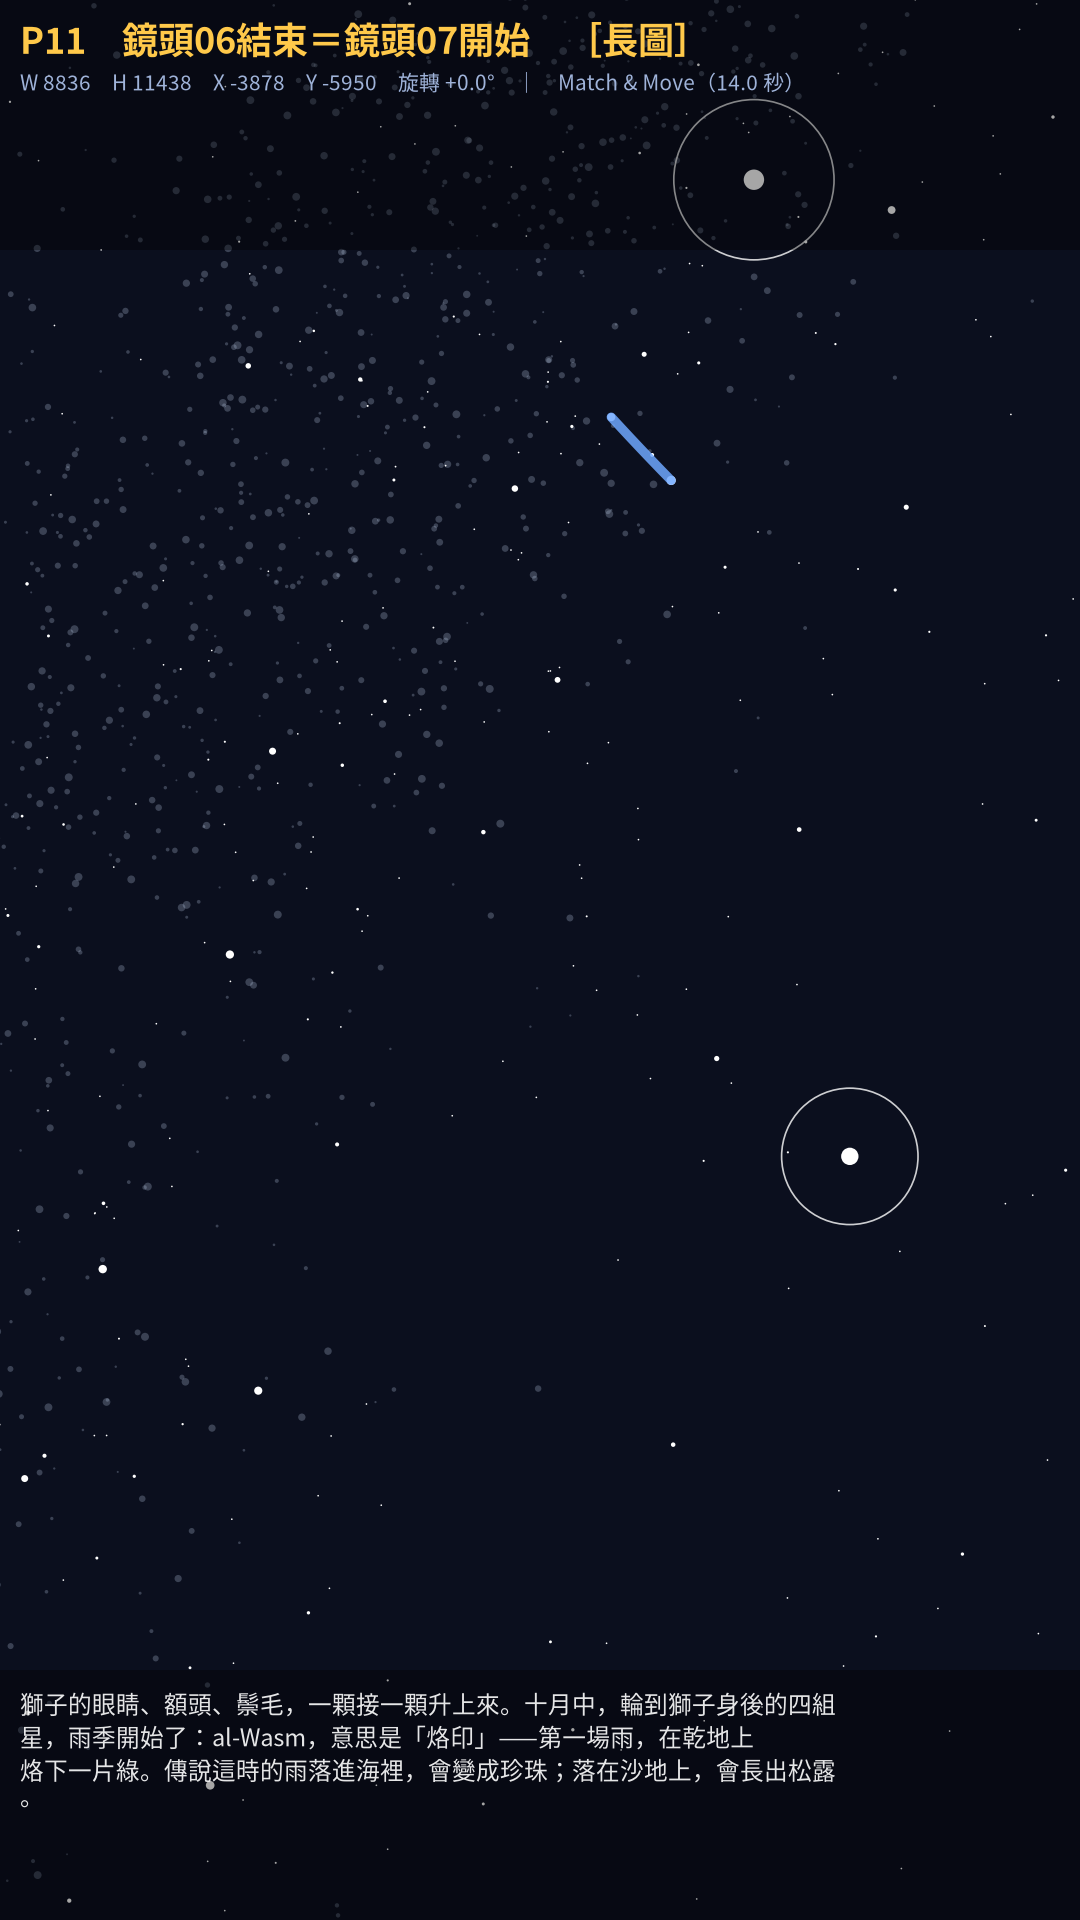
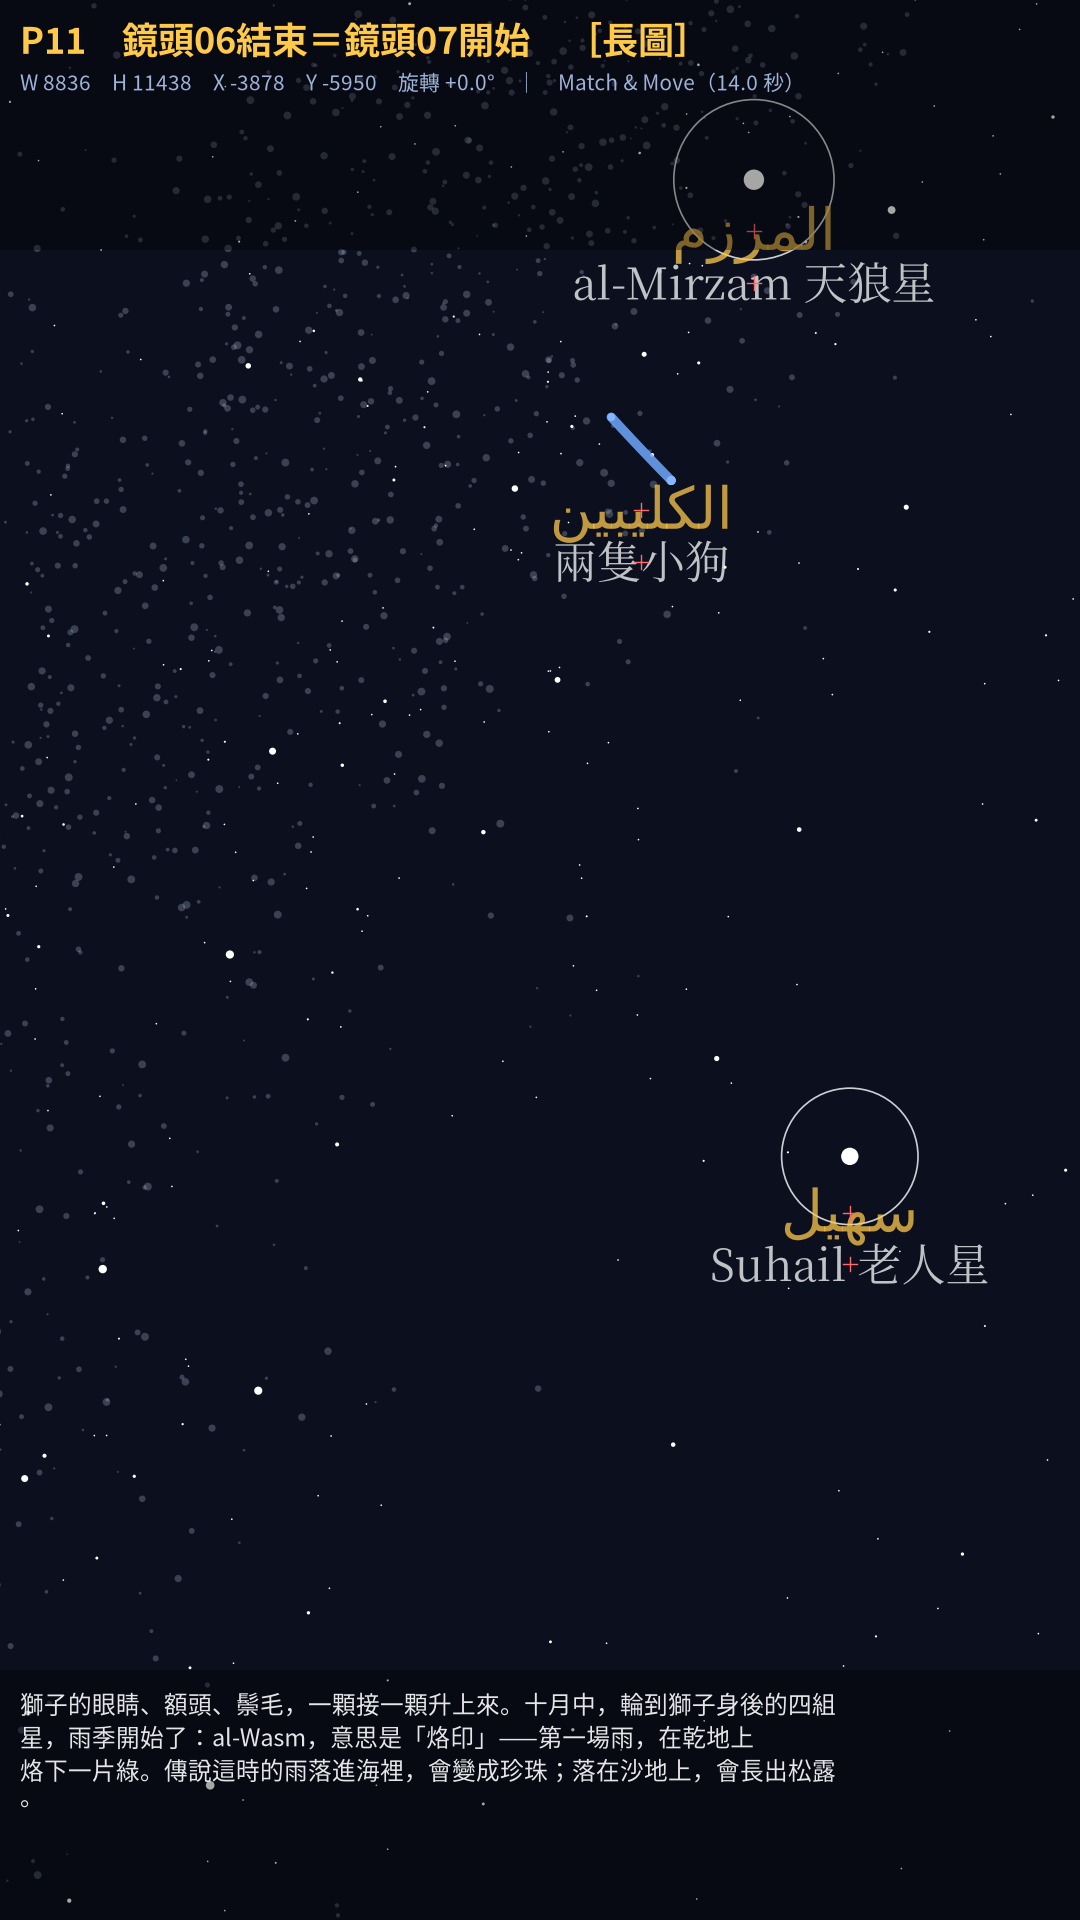
A-13：Canva 建置完成＋概念圖媒體 ID＋標籤銜接修正
- Canva「A-13 阿拉伯半島」（DAHWtAtSdto）：開場、44 頁天空、下集見、追蹤；定格頁疊上
  C-A13-01～05；旁白有改的 9 頁備註同步
- 07 鏡 labels_start＝星名（06 鏡停在老人星時 Suhail 標籤不再漏掉）、14 鏡 labels_end＝北天
  （旁白唸到 al-Jady 就淡入）；鏡頭清單與逐頁製作表重跑
- 逐字稿補 Canva 頁序、手動微調與待辦；節目表狀態改為 Canva 完成
- 使用說明補「一頁兩用」的標籤規則（labels_start／labels_end）

Claude-Session: https://claude.ai/code/session_01StZzE6tWpXcy8oYxpE6GNa

diff --git a/02_製作流程SOP/make_a13_v4.py b/02_製作流程SOP/make_a13_v4.py
@@ -483,6 +483,7 @@ def build():
              note="沿走廊往南：天狼（al-Mirzam）、兩隻小狗 → 老人星（Suhail）；星名標籤"),
         dict(code="07", kind="Z", sec=21, north=True,
              frames=[SUH, CORR, LION, WASM], layers=["站", "深空"], labels=ST,
+             labels_start=NMS,                 # 起格＝06 迄格（老人星）：留著 Suhail／兩隻小狗的星名
              vo="獅子的眼睛、額頭、鬃毛，一顆接一顆升上來。十月中，輪到獅子身後的四組星，"
                 "雨季開始了：al-Wasm，意思是「烙印」——第一場雨，在乾地上烙下一片綠。"
                 "傳說這時的雨落進海裡，會變成珍珠；落在沙地上，會長出松露。",
@@ -527,6 +528,7 @@ def build():
              note="輕推；月亮與昴宿同框"),
         dict(code="14", kind="T", sec=5, north=True, cut=True,
              frames=[NCOR, POLE], layers=["北", "深空"], labels=[],
+             labels_end=ls("北天原文", "北天中譯"),   # 旁白唸到 al-Jady 時就淡入（不必等到換北盤）
              vo="夜裡趕路，就看北邊。北極星叫 al-Jady，小山羊。",
              note="【硬切】回北走廊，往上到北極星；迄格＝15 起格（長圖轉北盤）"),
         dict(code="15", kind="R", sec=19, north=True,

diff --git a/05_素材/A-13_阿拉伯半島/_v4大畫布/A-13_Canva逐頁製作表.md b/05_素材/A-13_阿拉伯半島/_v4大畫布/A-13_Canva逐頁製作表.md
@@ -19,7 +19,7 @@
 | 8 | 鏡頭04結束＝鏡頭05開始 | 長圖 | 24300.0 | 31455.0 | -15187.5 | -13350.0 | 0.0 | Match & Move（17.0 秒） | L1-銀河、L2-星點、L3-經緯線、L5-連線-月站、L9-深空天體、L12-主角星白點、L13-標籤-月站原文、L14-標籤-月站中譯 | 接著十三天換一顆：先是跟在後面的小跟班 al-Twaibiʿ，就是畢宿五；再來是獵戶的頭、雙子的腳；七月底，輪到南河三——一頭大獅子的前臂。 |
 | 9 | 鏡頭05-中1 | 長圖 | 9720.0 | 12582.0 | -5292.0 | -5115.0 | 0.0 | Match & Move（8.0 秒） | L1-銀河、L2-星點、L3-經緯線、L5-連線-月站、L9-深空天體、L12-主角星白點、L13-標籤-月站原文、L14-標籤-月站中譯 |  |
 | 10 | 鏡頭05結束＝鏡頭06開始 | 長圖 | 9720.0 | 12582.0 | -4320.0 | -5169.0 | 0.0 | Match & Move（8.0 秒） | L1-銀河、L2-星點、L3-經緯線、L5-連線-月站、L9-深空天體、L12-主角星白點、L15-標籤-星名原文、L16-標籤-星名中譯 | 八月底，獅子的眼睛升起時，南方低空也冒出一顆亮星：Suhail，老人星。有兩句諺語：Suhail 一出來，夜就好過了；可是看到它，別以為不會淹水。 |
-| 11 | 鏡頭06結束＝鏡頭07開始 | 長圖 | 8836.4 | 11438.2 | -3878.2 | -5949.8 | 0.0 | Match & Move（14.0 秒） | L1-銀河、L2-星點、L3-經緯線、L5-連線-月站、L8-連線-清真寺與小狗、L9-深空天體、L12-主角星白點、L13-標籤-月站原文、L14-標籤-月站中譯 | 獅子的眼睛、額頭、鬃毛，一顆接一顆升上來。十月中，輪到獅子身後的四組星，雨季開始了：al-Wasm，意思是「烙印」——第一場雨，在乾地上烙下一片綠。傳說這時的雨落進海裡，會變成珍珠；落在沙地上，會長出松露。 |
+| 11 | 鏡頭06結束＝鏡頭07開始 | 長圖 | 8836.4 | 11438.2 | -3878.2 | -5949.8 | 0.0 | Match & Move（14.0 秒） | L1-銀河、L2-星點、L3-經緯線、L5-連線-月站、L8-連線-清真寺與小狗、L9-深空天體、L12-主角星白點、L15-標籤-星名原文、L16-標籤-星名中譯 | 獅子的眼睛、額頭、鬃毛，一顆接一顆升上來。十月中，輪到獅子身後的四組星，雨季開始了：al-Wasm，意思是「烙印」——第一場雨，在乾地上烙下一片綠。傳說這時的雨落進海裡，會變成珍珠；落在沙地上，會長出松露。 |
 | 12 | 鏡頭07-中1 | 長圖 | 9720.0 | 12582.0 | -4320.0 | -5169.0 | 0.0 | Match & Move（7.0 秒） | L1-銀河、L2-星點、L3-經緯線、L5-連線-月站、L9-深空天體、L12-主角星白點、L13-標籤-月站原文、L14-標籤-月站中譯 |  |
 | 13 | 鏡頭07-中2 | 長圖 | 9720.0 | 12582.0 | -3186.0 | -5169.0 | 0.0 | Match & Move（7.0 秒） | L1-銀河、L2-星點、L3-經緯線、L5-連線-月站、L9-深空天體、L12-主角星白點、L13-標籤-月站原文、L14-標籤-月站中譯 |  |
 | 14 | 鏡頭07結束＝鏡頭08開始 | 長圖 | 8100.0 | 10485.0 | -1372.5 | -4282.5 | 0.0 | Match & Move（7.0 秒） | L1-銀河、L2-星點、L3-經緯線、L5-連線-月站、L9-深空天體、L12-主角星白點、L13-標籤-月站原文、L14-標籤-月站中譯 | 十二月七號，天蠍的頭——al-Iklīl，「冠冕」——在黎明前升起；同一個黎明，西邊的昴宿正好落下。阿拉伯人說，這一對互為「守望者」：一個升起，另一個就落下。上週參商那種「你升我落」，阿拉伯人也看見了——只是他們拿來算雨。 |
@@ -42,7 +42,7 @@
 | 31 | 鏡頭12-概念圖收＝鏡頭13開始 | 長圖 | 21600.0 | 27960.0 | -13620.0 | -11760.0 | 0.0 | Match & Move（畫面不動；概念圖淡出） | L1-銀河、L2-星點、L3-經緯線、L10-月亮-1221、L9-深空天體、L12-主角星白點、L15-標籤-星名原文、L16-標籤-星名中譯 | 今年的「第十三晚」就是十二月二十一號這一夜，剛好碰上冬至。那晚抬頭，快滿的月亮就在昴宿旁邊，不到一個拳頭。 |
 | 32 | 鏡頭13結束 | 長圖 | 25920.0 | 33552.0 | -16380.0 | -14232.0 | 0.0 | Match & Move（12.0 秒） | L1-銀河、L2-星點、L3-經緯線、L10-月亮-1221、L9-深空天體、L12-主角星白點、L15-標籤-星名原文、L16-標籤-星名中譯 |  |
 | 33 | 鏡頭14開始 | 長圖 | 8836.4 | 11438.2 | -3878.2 | -4268.2 | 0.0 | 無（硬切，新構圖） | L1-銀河、L2-星點、L3-經緯線、L6-連線-北天、L9-深空天體、L12-主角星白點 | 夜裡趕路，就看北邊。北極星叫 al-Jady，小山羊。 |
-| 34 | 鏡頭14結束 | 長圖 | 8836.4 | 11438.2 | -3878.2 | -2130.5 | 0.0 | Match & Move（5.0 秒） | L1-銀河、L2-星點、L3-經緯線、L6-連線-北天、L9-深空天體、L12-主角星白點 |  |
+| 34 | 鏡頭14結束 | 長圖 | 8836.4 | 11438.2 | -3878.2 | -2130.5 | 0.0 | Match & Move（5.0 秒） | L1-銀河、L2-星點、L3-經緯線、L6-連線-北天、L9-深空天體、L12-主角星白點、L17-標籤-北天原文、L18-標籤-北天中譯 |  |
 | 35 | 長圖轉北盤1＝鏡頭15開始 | 北盤 | 6174.2 | 6174.2 | -2547.1 | -2127.1 | 0.0 | 無（同框硬切：畫面完全相同，只把長圖換成北盤） | 北盤L1-銀河、北盤L2-星點、北盤L3-經緯線、北盤L6-連線-北天、北盤L9-主角星白點、北盤L10-標籤-北天原文、北盤L11-標籤-北天中譯 | 傳說小山羊殺了一個叫 Naʿsh 的人；他的七個女兒——北斗七星——抬著父親的棺架，一夜一夜繞著北極星轉，發誓不報仇就不下葬。北極星只好找兩顆星當保鏢：小熊座這兩顆，就叫「兩個守衛」。 |
 | 36 | 鏡頭15-中1 | 北盤 | 2469.7 | 2469.7 | -694.8 | -274.8 | -60.0 | Match & Move（9.5 秒） | 北盤L1-銀河、北盤L2-星點、北盤L3-經緯線、北盤L6-連線-北天、北盤L9-主角星白點、北盤L10-標籤-北天原文、北盤L11-標籤-北天中譯 |  |
 | 37 | 鏡頭15結束 | 北盤 | 2469.7 | 2469.7 | -694.8 | -274.8 | -150.0 | Match & Move（9.5 秒） | 北盤L1-銀河、北盤L2-星點、北盤L3-經緯線、北盤L6-連線-北天、北盤L9-主角星白點、北盤L10-標籤-北天原文、北盤L11-標籤-北天中譯 |  |

diff --git a/04_腳本庫/A-13-阿拉伯半島Thurayya與沙漠的雨季-逐字稿-v1.md b/04_腳本庫/A-13-阿拉伯半島Thurayya與沙漠的雨季-逐字稿-v1.md
@@ -143,6 +143,30 @@
 - 原生標籤照 `A-13_逐頁標籤座標.csv` 打字；阿拉伯文直接打正常順序（Canva 會自己連寫）。
 - 盤圖層組疊回大畫布（備用）：盤寬＝畫布寬 × **0.698728**；北盤水平置中＋對齊上緣、南盤水平置中＋對齊下緣（`A-13_盤對位.csv`）。
 - 下集見端卡寫「因紐特：極夜裡的星鐘」。
+- **已建好（2026/10/07）**，頁序：
+  - 第 1 頁：開場。背景是北盤 L1–L3，字卡「同一片星空，沙漠裡的人看見——一本日曆；什麼時候下雨——問問昴宿。」
+  - 第 2–45 頁：製作表第 1–44 頁。每頁都有天空圖層、原生標籤，備註裡寫了旁白。
+  - 第 46 頁：下集見。背景北盤轉 104°，讓北斗在北極星上方。
+  - 第 47 頁：追蹤。
+- 定格頁的概念圖：
+  - 第 5–7 頁：C-A13-01，三層。
+  - 第 17–20 頁：C-A13-02，四層。
+  - 第 24 頁：C-A13-04 圖卡，滿版。
+  - 第 29–31 頁：C-A13-03，三層。
+  - 第 43 頁：C-A13-05 圖卡，滿版。
+  - 分層的概念圖底下墊一層 75% 黑的圓角框。
+- 跟製作表不一樣的地方，以 Canva 為準：
+  - 第 12 頁（06 迄＝07 起）補上 Suhail、天狼星、兩隻小狗的星名。製作表已同步（07 鏡 `labels_start`）。
+  - 第 35 頁（14 迄）補上 al-Jady 標籤，旁白唸到時就淡入。製作表已同步（14 鏡 `labels_end`）。
+  - 第 15、23、25、42 頁：把被畫面邊緣切到的標籤往內挪。
+  - 第 37 頁：「Naʿsh 的女兒們」移到北斗下方。
+  - 第 38 頁：「駱駝鞍」移到仙后 W 上方。
+  - 月亮標籤：第 28、32、33 頁改成兩行 64px「12/21／晚上八點的月亮」。製作表的對位參考在沒有月亮層的頁（製作表 25、26、41）仍有月亮標籤的虛影，Canva 沒有打這個字。
+- 還要手動處理：
+  - **字型**：原生標籤目前是 Canva 預設字型，請整批換成品牌字（筑紫Aオールド明朝；阿拉伯文用 Canva 內建的阿拉伯字型）。
+  - **多餘的頁**：Canva API 不能刪頁。
+    - 第 48–58 頁是阿拉伯星空的參考文獻（古典 al-Ṣūfī、Ibn Qutayba《Kitāb al-Anwāʾ》，半島民間 al-Ajaji、Ibn Khamīs，月站曆），可以留作片尾參考頁。
+    - 第 59–83 頁是其他文化的文獻和舊模板頁，請刪除。
 
 ## Caption 建議
 

diff --git a/02_製作流程SOP/Canva逐頁製作表_使用說明.md b/02_製作流程SOP/Canva逐頁製作表_使用說明.md
@@ -55,6 +55,7 @@ SVG 標籤層在 Canva 裡解析度不夠，所以標籤一律原生打字（品
 4. 把文字中心對到紅十字 → 刪掉描圖紙。
 5. 同一鏡頭的「結束」頁：複製頁面後，把每個文字拖到結束頁描圖紙的紅十字上，Match & Move 就會讓標籤跟著星星一起移動（平移／縮放時兩者都是直線內插，全程對得上）。
 6. 旋轉鏡頭（R）裡不放原生標籤，或把標籤跟盤群組成一組（字會跟著轉歪）；表上 A-07 的旋轉段都沒有標籤。
+7. **「＝」一頁兩用的頁，標籤取下一鏡的設定**。上一鏡的重點星名如果只在迄格看得到，就會漏掉。這時在下一鏡加 `labels_start`（A-13 的 06 鏡停在老人星，07 鏡加 `labels_start=NMS`，Suhail 才會出現）。反過來，旁白唸到星名、鏡頭本身卻沒開標籤時，用 `labels_end` 讓標籤在迄格淡入（A-13 的 14 鏡 al-Jady）。改完重跑 make 腳本和本表。
 
 ## 四、重新產生（改了鏡頭之後）
 
